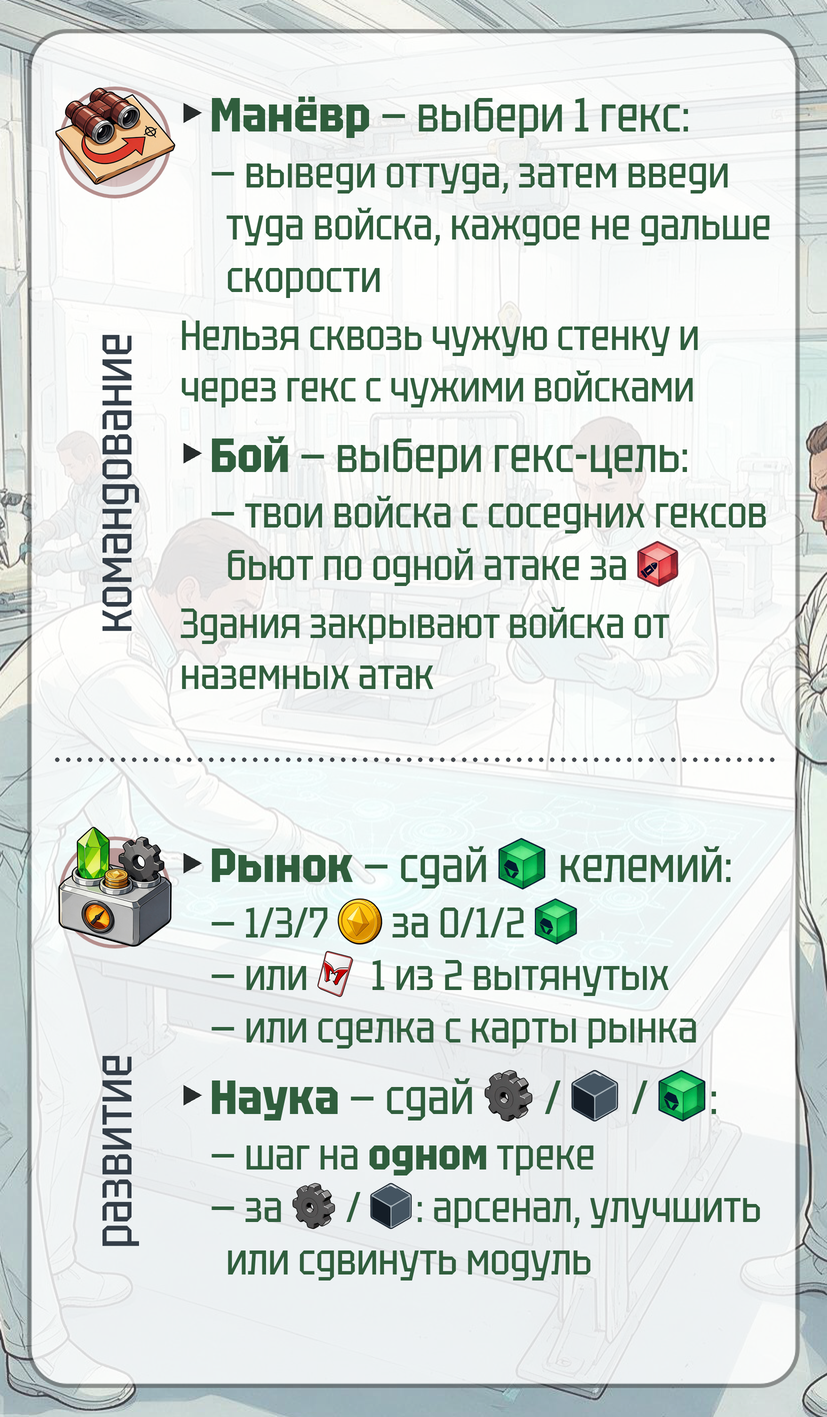
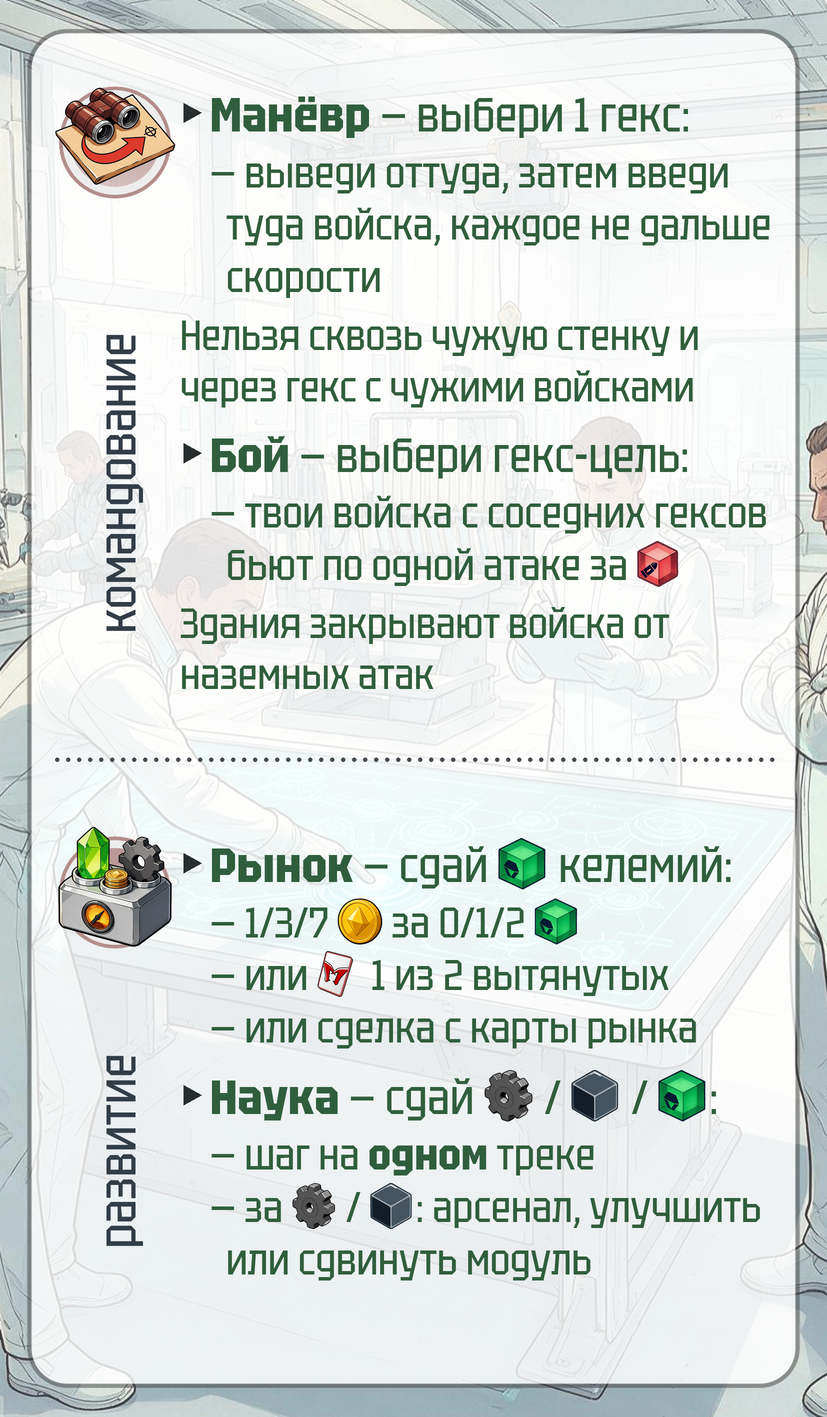
Памятка действий 5.0: Питание ближе к пунктиру, подпись с дыханием; плотнее межстрочный у «снаб-жение»

Changed region(s): [[0.1209, 0.2174, 0.1814, 0.4658], [0.1209, 0.7452, 0.1814, 0.8694]]

diff --git a/tools/gen_memo_5.py b/tools/gen_memo_5.py
@@ -201,11 +201,12 @@ def высота_раздела(иконка, подпись, строки, р=4
     return h
 
 
-def раздел(холст, y0, y1, иконка, подпись, строки, р=40, только_текст=False):
+def раздел(холст, y0, y1, иконка, подпись, строки, р=40, только_текст=False, подъём=0, подпись_ниже=0):
     """Левая колонка: кружок и вертикальная подпись; справа — строки."""
     d = ImageDraw.Draw(холст)
     if только_текст:
         return _текст(холст, d, y0, строки, р)
+    y0 -= подъём
     # кружок действия
     cx, cy, r = 115, y0 + 72, 56
     круг = вписать(икона('ring'), 2 * r * K, 2 * r * K)
@@ -248,7 +249,7 @@ def раздел(холст, y0, y1, иконка, подпись, строки,
         размер -= 2 * K
         f = шрифт(ОБЫЧНЫЙ, размер)
     длина = max(f.getlength(t) for t in строки_п)
-    шаг_строк = int(размер * 1.05)
+    шаг_строк = int(размер * 0.9)       # плотнее: две строки читаются одним словом
     tw = int(длина) + 8 * K
     th = шаг_строк * len(строки_п) + int(размер * 0.3)
     лист = Image.new('RGBA', (tw, th), (0, 0, 0, 0))
@@ -256,7 +257,7 @@ def раздел(холст, y0, y1, иконка, подпись, строки,
     for i, t in enumerate(строки_п):
         dl.text((4 * K, int(размер * 0.62) + i * шаг_строк), t, font=f, fill=СЛАНЕЦ, anchor='lm')
     лист = лист.rotate(90, expand=True)
-    y_центр = (верх_п * K + низ_п * K) / 2
+    y_центр = (верх_п * K + низ_п * K) / 2 + подпись_ниже * K
     холст.alpha_composite(лист, (round(cx * K - лист.width / 2),
                                  round(y_центр - лист.height / 2)))
     return _текст(холст, d, y0, строки, р)
@@ -330,7 +331,9 @@ def карточка_1():
     y = 40
     for i, (ик, подп, стр) in enumerate(разделы):
         h = высота_раздела(ик, подп, стр)
-        раздел(холст, y, y + h, ик, подп, стр)
+        # Питание: кружок с текстом ближе к пунктиру, подпись чуть ниже (дизайнер 27.09)
+        сдвиг = {'power': (12, 10)}.get(ик, (0, 0))
+        раздел(холст, y, y + h, ик, подп, стр, подъём=сдвиг[0], подпись_ниже=сдвиг[1])
         y += h + зазор
         пунктир(d, y)
         y += зазор
